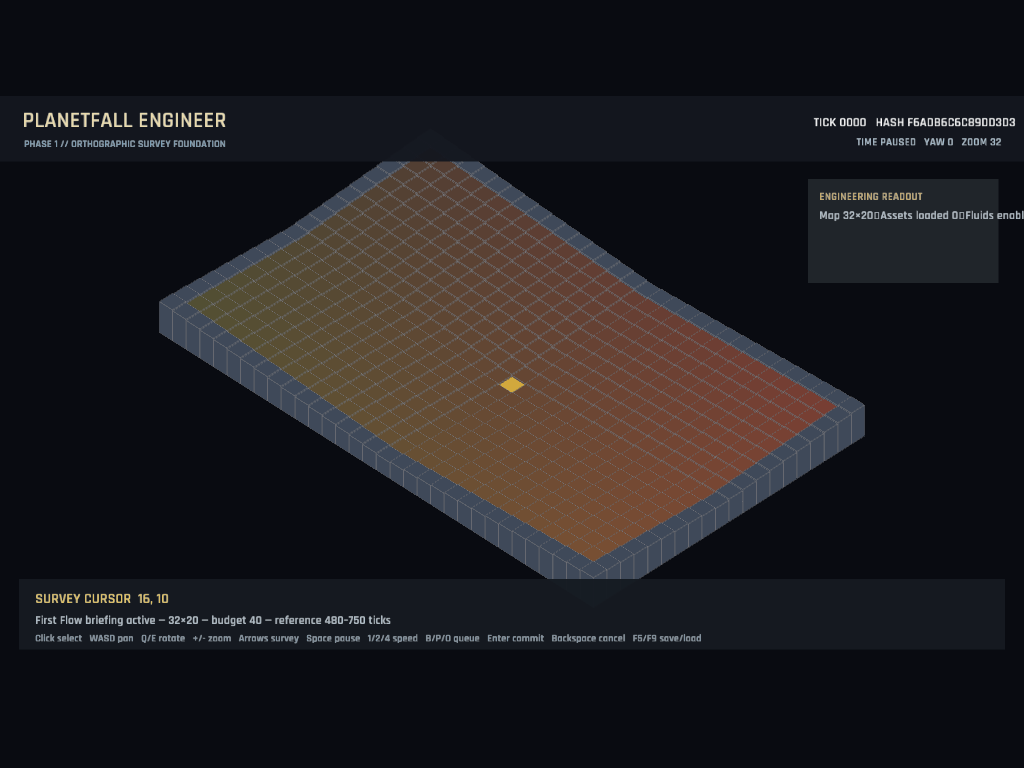
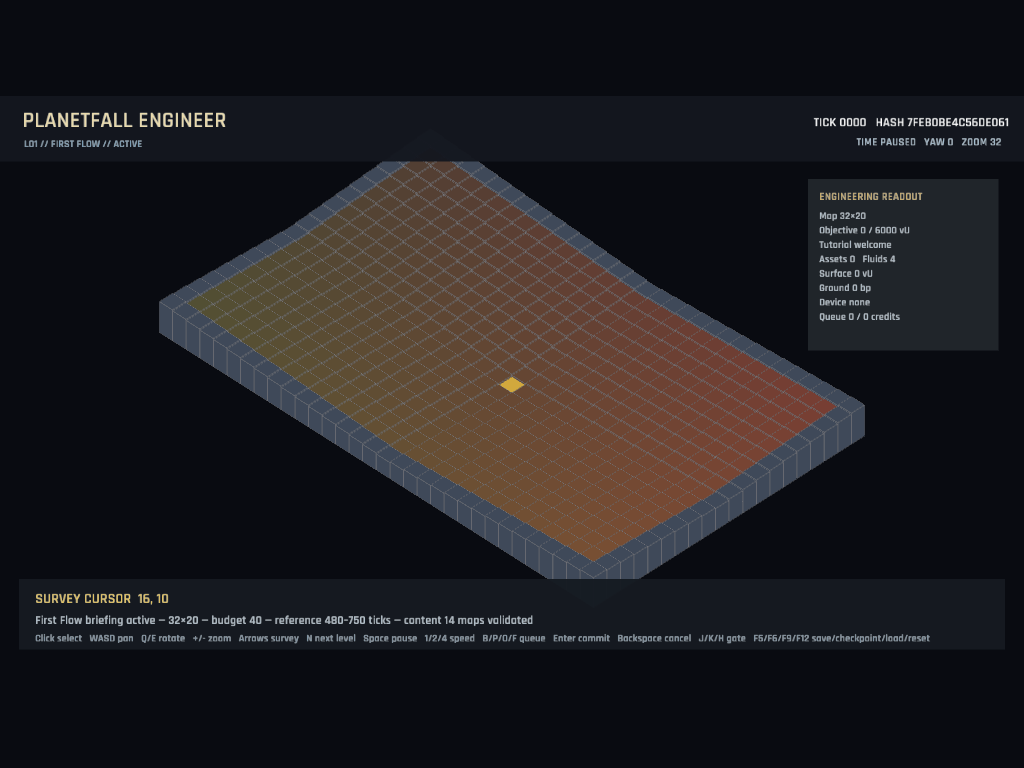
The survey readout stays legible when the viewport narrows (capture matrix evidence)
The expanded mission readout rendered as an unclipped block at the reference size but collapsed into a clipped line because the UI text path does not wrap embedded newlines. Draw bounded engineering rows with a short tutorial label, refresh the 1280x720, 1024x768, and 800x600 captures, and verify the full 3D map remains framed at each size.

All 40 project tests, clippy with warnings denied, publish.ps1, and visual inspection of the three required captures pass.

diff --git a/src/ui.rs b/src/ui.rs
@@ -20,12 +20,20 @@ pub fn draw_hud(ctx: UiContext<'_>) {
     draw_ui_text_ex(&format!("SURVEY CURSOR  {}, {}", ctx.session.selected.x, ctx.session.selected.y), 44.0, 634.0, TextStyle::new(18.0, Color::new(0.95, 0.8, 0.35, 1.0)).params());
     draw_ui_text_ex(ctx.notice, 44.0, 660.0, TextStyle::new(15.0, Color::new(0.7, 0.76, 0.8, 1.0)).params());
     draw_ui_text_ex("Click select   WASD pan   Q/E rotate   +/- zoom   Arrows survey   N next level   Space pause   1/2/4 speed   B/P/O/F queue   Enter commit   Backspace cancel   J/K/H gate   F5/F6/F9/F12 save/checkpoint/load/reset", 44.0, 682.0, TextStyle::new(13.0, Color::new(0.5, 0.58, 0.64, 1.0)).params());
-    draw_rectangle(1010.0, 104.0, 238.0, 166.0, Color::new(0.04, 0.06, 0.09, 0.9));
+    draw_rectangle(1010.0, 104.0, 238.0, 214.0, Color::new(0.04, 0.06, 0.09, 0.9));
     draw_ui_text_ex("ENGINEERING READOUT", 1024.0, 130.0, TextStyle::new(14.0, Color::new(0.8, 0.68, 0.4, 1.0)).params());
     let selected = &ctx.session.simulation.cells[ctx.session.simulation.index(ctx.session.selected).unwrap()];
     let device_readout = ctx.session.simulation.devices.devices.iter().find(|device| device.anchor == ctx.session.selected).map(|device| format!("Device {} {}% {}", device.device.name(), device.setting_bp / 100, if device.active { "ACTIVE" } else { "IDLE" })).unwrap_or_else(|| "Device none".into());
-    let tutorial = ctx.session.mission.tutorial.as_ref().map(|tutorial| tutorial.current_step_id.as_str()).unwrap_or("none");
-    draw_ui_text_ex(&format!("Map {}×{}\nObjective {} vU / {}\nTutorial {}\nAssets loaded {}\nFluids enabled {}\nSurface {} vU\nGround {} bp\n{}\nQueue {} / {} credits", ctx.data.config.world_width, ctx.data.config.world_height, ctx.session.mission.objective_progress, objective_target(ctx.session.mission.id), tutorial, ctx.loaded_assets, FluidId::ALL.len(), selected.surface_volume(), selected.ground_contamination_bp, device_readout, ctx.session.simulation.devices.queued.len(), ctx.session.simulation.devices.reserved_budget), 1024.0, 154.0, TextStyle::new(14.0, Color::new(0.7, 0.76, 0.8, 1.0)).params());
+    let tutorial = ctx.session.mission.tutorial.as_ref().map(|tutorial| tutorial.current_step_id.strip_prefix("tutorial_l01_").unwrap_or(&tutorial.current_step_id)).unwrap_or("none");
+    let style = TextStyle::new(13.0, Color::new(0.7, 0.76, 0.8, 1.0));
+    draw_ui_text_ex(&format!("Map {}×{}", ctx.data.config.world_width, ctx.data.config.world_height), 1024.0, 154.0, style.params());
+    draw_ui_text_ex(&format!("Objective {} / {} vU", ctx.session.mission.objective_progress, objective_target(ctx.session.mission.id)), 1024.0, 172.0, style.params());
+    draw_ui_text_ex(&format!("Tutorial {}", tutorial), 1024.0, 190.0, style.params());
+    draw_ui_text_ex(&format!("Assets {}   Fluids {}", ctx.loaded_assets, FluidId::ALL.len()), 1024.0, 208.0, style.params());
+    draw_ui_text_ex(&format!("Surface {} vU", selected.surface_volume()), 1024.0, 226.0, style.params());
+    draw_ui_text_ex(&format!("Ground {} bp", selected.ground_contamination_bp), 1024.0, 244.0, style.params());
+    draw_ui_text_ex(&device_readout, 1024.0, 262.0, style.params());
+    draw_ui_text_ex(&format!("Queue {} / {} credits", ctx.session.simulation.devices.queued.len(), ctx.session.simulation.devices.reserved_budget), 1024.0, 280.0, style.params());
     if matches!(ctx.session.mission.phase, MissionPhase::Success | MissionPhase::Failure | MissionPhase::Debrief) { draw_terminal_panel(ctx.session); }
 }
 
